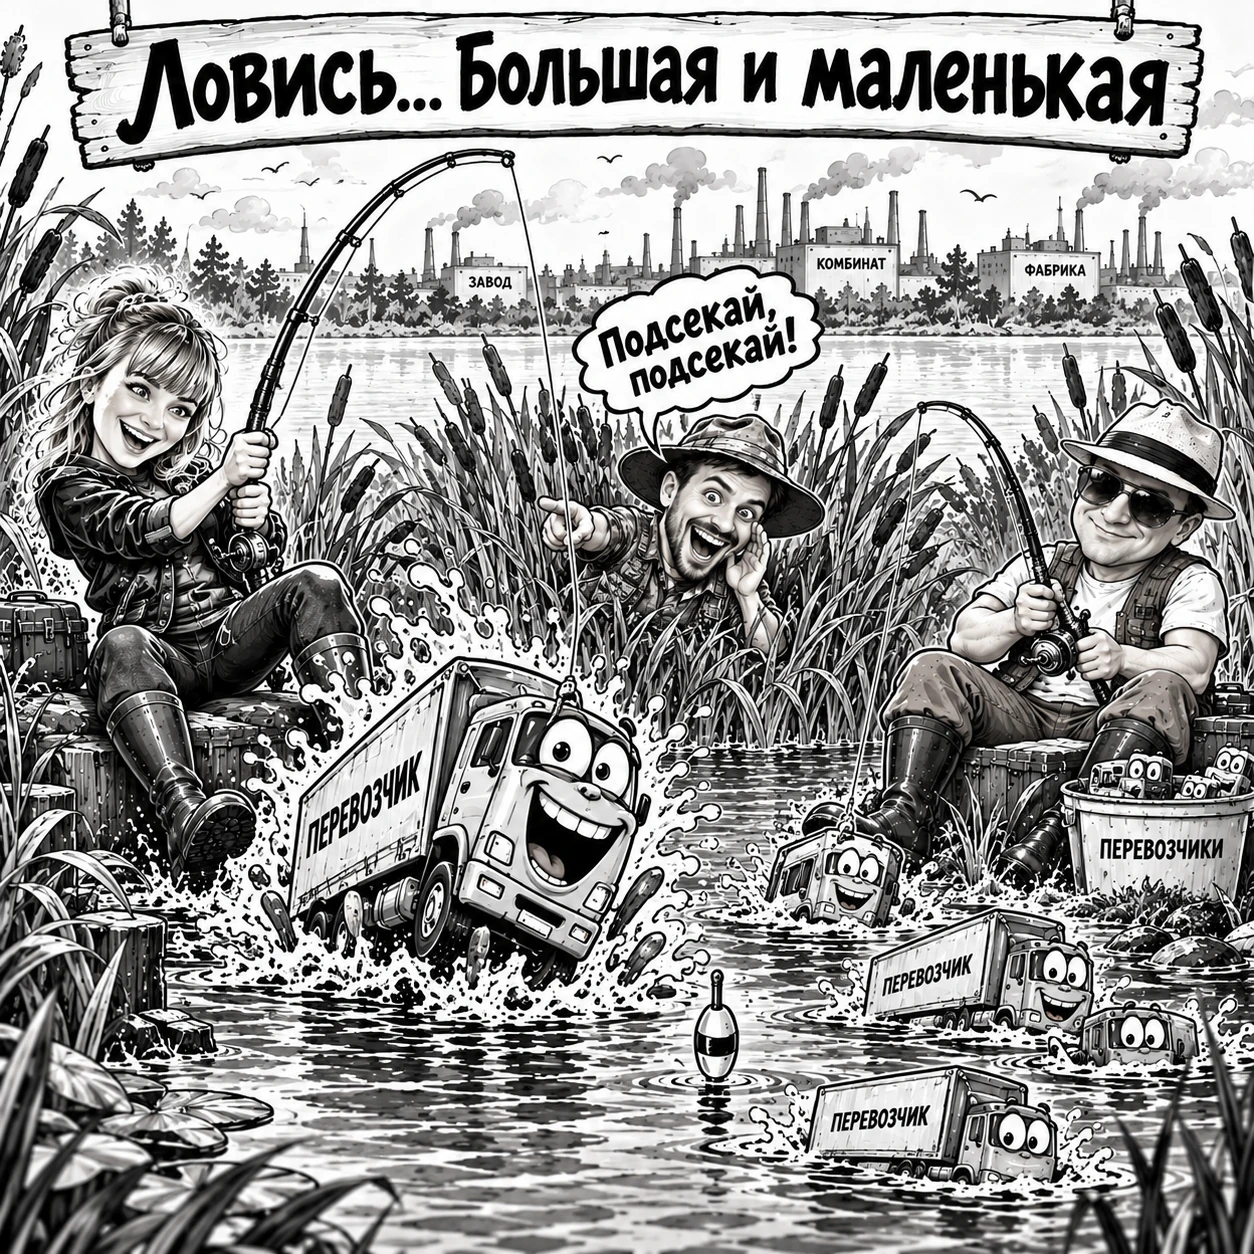
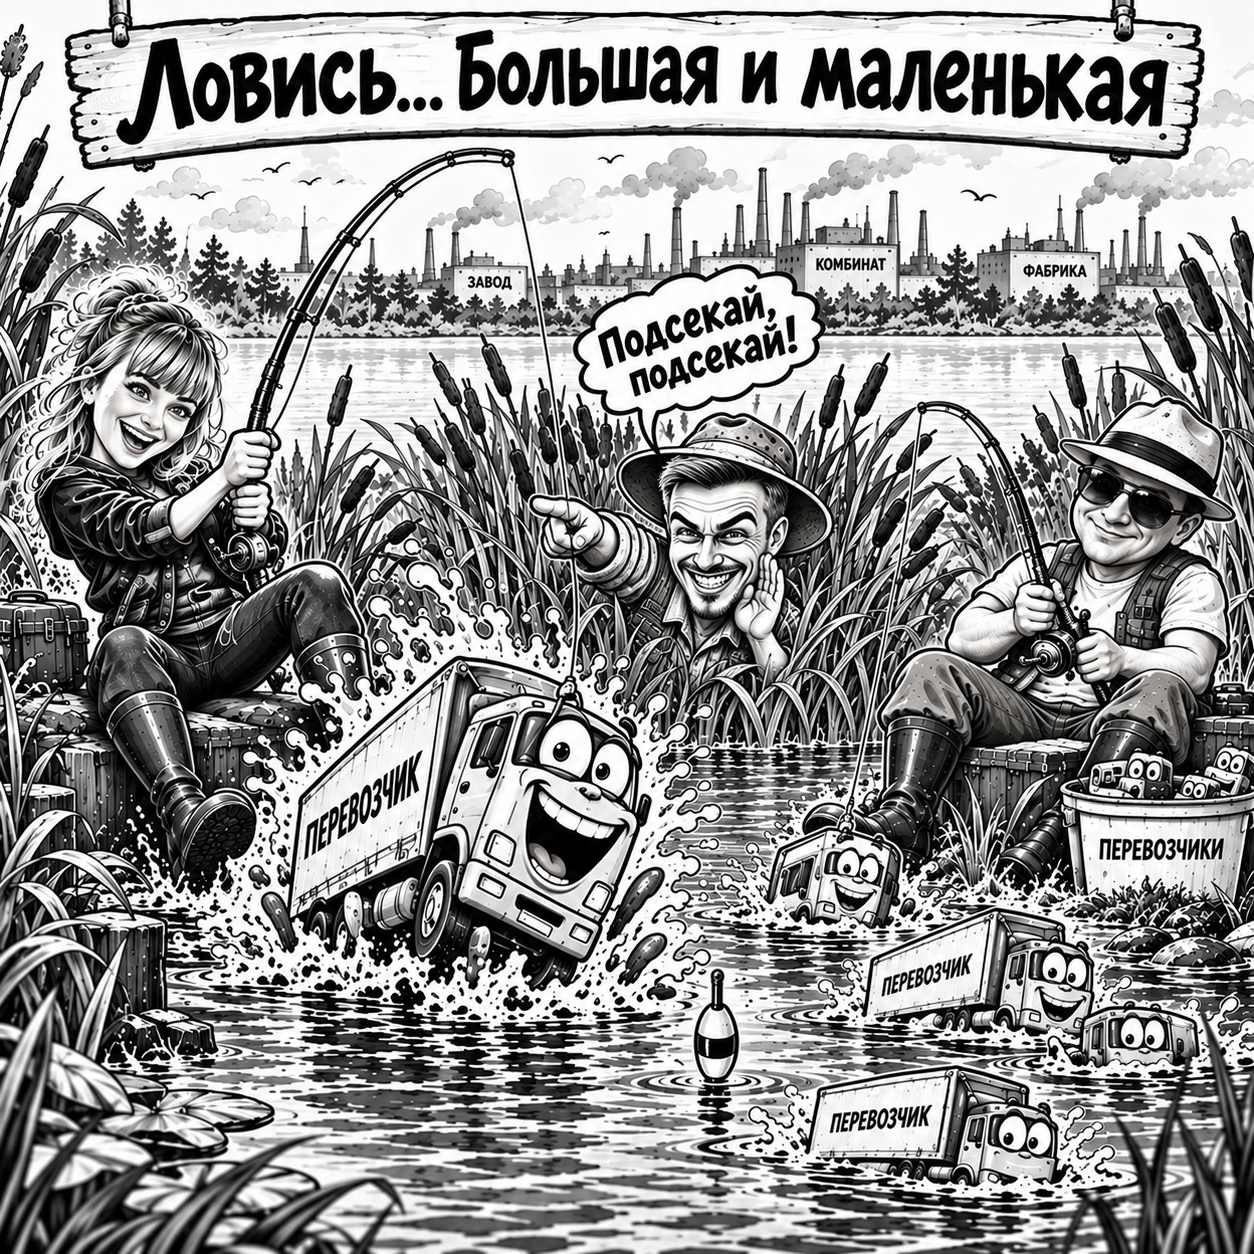
feat: highlight ETRN advice and update three approved team images

diff --git a/app/HeroTrust.module.css b/app/HeroTrust.module.css
@@ -6,6 +6,15 @@
 .facts a { display: inline-flex; align-items: center; gap: 6px; min-height: 44px; margin-block: -9px; transition: color .2s; }
 .facts a:hover { color: #a34308; }
 .facts a:focus-visible { outline: 2px solid var(--color-accent-orange); outline-offset: 4px; }
+.etrn dt a { color: var(--color-accent-orange); }
+.etrn dd { animation: etrnAdviceColor 3.5s ease-in-out infinite; }
+@keyframes etrnAdviceColor {
+  0%, 35%, 100% { color: #625e58; }
+  60%, 72% { color: #a34308; }
+}
+@media (prefers-reduced-motion: reduce) {
+  .etrn dd { animation: none; }
+}
 @media (min-width: 1280px) {
   .strip { background: transparent; width: min(40vw, 576px); margin-left: clamp(4.375rem,4.7vw,4.5rem); padding-bottom: 0; }
   .facts { width: 100%; max-width: none; padding: 0; gap: 20px; grid-template-columns: repeat(2, minmax(0, 1fr)); }

diff --git a/app/HeroTrust.tsx b/app/HeroTrust.tsx
@@ -6,7 +6,7 @@ export default function HeroTrust() {
       <div><dt>С 2008 года</dt><dd>Опыт организации перевозок</dd></div>
       <div><dt>20&nbsp;млн&nbsp;₽</dt><dd>Страховая защита</dd></div>
       <div><dt><a href="https://ati.su/firms/865279/info" target="_blank" rel="noreferrer">ATI.SU <span aria-hidden="true">↗</span></a></dt><dd>Открытая репутация</dd></div>
-      <div><dt><a href="/etrn">ЭТрН <span aria-hidden="true">↗</span></a></dt><dd>Практические советы</dd></div>
+      <div className={styles.etrn}><dt><a href="/etrn">ЭТрН <span aria-hidden="true">↗</span></a></dt><dd>Практические советы</dd></div>
     </dl>
   </div>
 }
